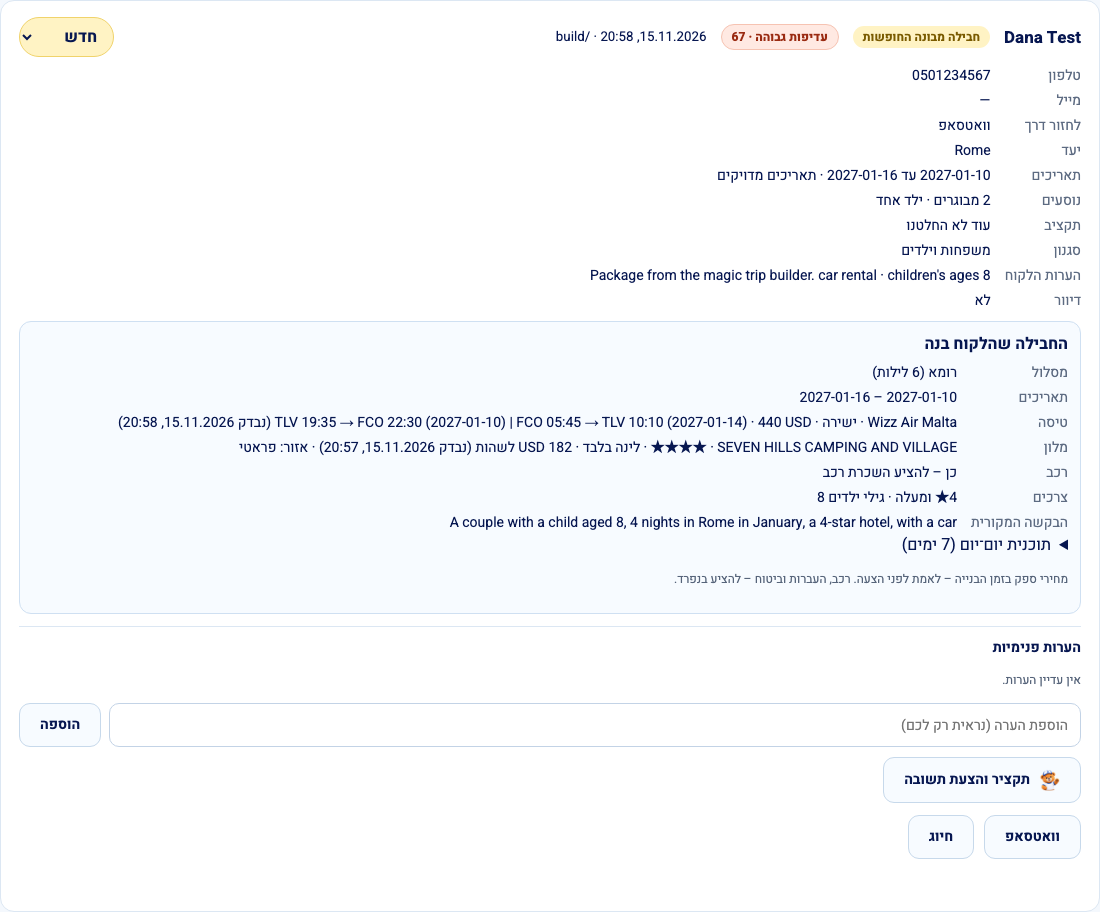
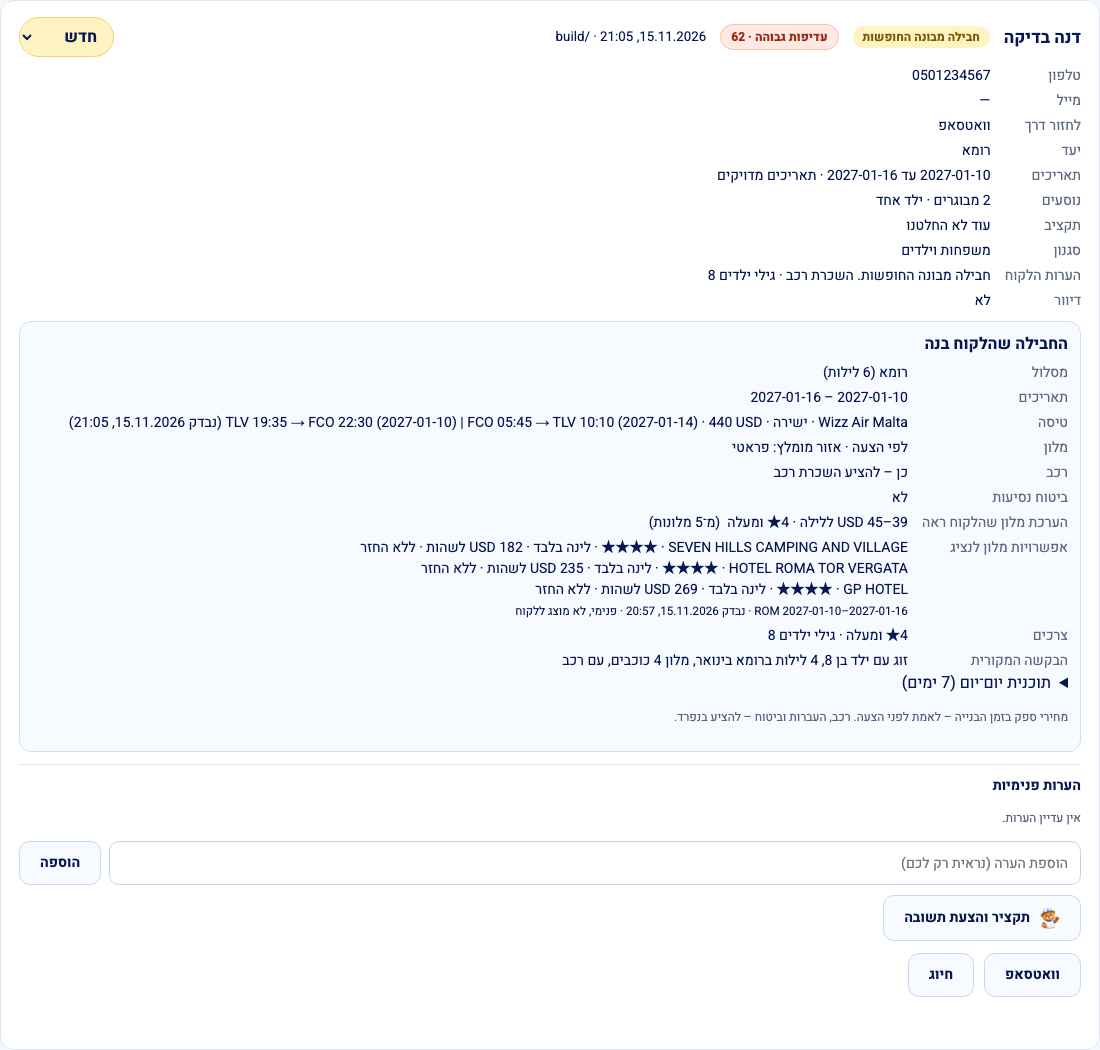
Owner decisions in the builder: hotels private by default (HOTELS_PUBLIC_DISPLAY off → area + stars/board + an aggregate price range from live supplier rates, no hotel names/photos/rates, no image proxy; the top options reach the agent in /admin only via the lead), Harel travel-insurance add-on (on 

diff --git a/gerbi/docs/specs/24-magic-trip-builder-he.md b/gerbi/docs/specs/24-magic-trip-builder-he.md
@@ -57,6 +57,18 @@
 
 ---
 
+### 1.3 החלטות הבעלים (15.11.2026, ערב)
+- **הספק אינו מאשר הצגה ציבורית של תוצאות ותמונות מלונות.** לכן `HOTELS_PUBLIC_DISPLAY` כבוי כברירת מחדל:
+  - בדף הציבורי אין שם מלון, תמונה או מחיר של מלון בודד, ו־`/api/build/hotel-image` מחזיר 404.
+  - כרטיס המלונות מציג: האזור המומלץ לסוג המטיילים (ובחירת אזור אחר), דרגת הכוכבים והפנסיון שביקשו, ו**הערכה**: "בדרך כלל ₪X–Y ללילה ל־4★ באזור …" + לכל השהות, עם התווית "הערכה; נציג ישלח הצעת מלון מדויקת".
+  - ההערכה = הרבעון ה־25 עד ה־75 של מחיר ללילה מבין המלונות המתאימים (כוכבים, פנסיון; באזור המומלץ כשיש בו לפחות 5), מחושבת בשרת מחיפוש חי – סטטיסטיקה מצטברת בלבד, מ־3 מלונות ומעלה. בפחות מכך – "לפי הצעה מנציג".
+  - 3 האפשרויות המובילות נשמרות **בשרת בלבד** (`agent-hotels:<ref>`, 14 יום); החבילה נושאת רק מזהה אטום, והליד מקבל `agentHotels` שמוצגים רק באדמין ("אפשרויות מלון לנציג · פנימי").
+  - `HOTELS_PUBLIC_DISPLAY=1` מחזיר את ההתנהגות המלאה (מלונות בשמם, תמונות, בחירה).
+- **בלי תוספת רווח כרגע.** `PRICE_MARKUP_PCT` לא נבנה: תוספת רק בבונה תיצור פער מול החיפוש הרגיל באותה טיסה. אם יוחלט על רווח – במקום אחד לכל האתר.
+- **שותף השכרת רכב = הספק, אבל ל־API שלנו אין הרשאת רכב** (`invalid_scope`). הרכב נשאר "לפי הצעה מנציג". **לבקש מהספק להפעיל הרשאת רכב ולשלוח תיעוד.**
+- **ביטוח נסיעות = הראל (אין API).** תוספת אופציונלית בחבילה: "ביטוח נסיעות – הראל", מתומחר "לפי הצעה מנציג" ונשמר בליד. קישור חיצוני רק עם `INSURANCE_PARTNER_URL` (https; כבוי כברירת מחדל). השם בטקסט בלבד, בלי לוגו.
+- **חיפוש שחזר ריק** (למשל ספק עמוס) לא נשמר במטמון, כדי שהבנייה הבאה תנסה שוב. התשובות המוקלטות (`GERBI_SUPPLIER_FIXTURES`) לא קוראות את המטמון החי ולא כותבות אליו.
+
 ## 2. מסעות משתמש
 
 | # | מי | מה כותבים | מה מקבלים |
@@ -111,9 +123,10 @@
 |---|---|---|
 | טיסה | הבחירה המסומנת מהספק | **חי** + שעת בדיקה; מומר לש״ח בשער האתר |
 | מלון | המלון המסומן מהספק (`minPrice` לשהות) | **חי** + שעת בדיקה; "המחיר הסופי מאומת מול הספק לפני הזמנה" |
+| מלון – מצב ברירת מחדל (פרטי) | סטטיסטיקה מצטברת מחיפוש חי (§1.3) | **הערכה**: טווח ללילה ולשהות, נוסף לטווח ההערכה ולא לסכום החי |
 | מלון (אין תוצאה) | — | **לפי הצעה מנציג** |
 | הוצאות במקום | `dailyBudgetIls` של היעד (קטלוג) × ימים × נוסעים (ילד = 0.6 מבוגר) | **הערכה**: טווח `low–mid` (או `mid–high` לתקציב גבוה / יוקרה); "אוכל, אטרקציות ותחבורה מקומית, בלי לינה" |
-| רכב, העברות, ביטוח | — | **לפי הצעה מנציג** |
+| רכב, העברות, ביטוח נסיעות (הראל, כשסומן) | — | **לפי הצעה מנציג** |
 
 - **סה״כ חי** = טיסה + מלון (רק מה שחי). **הערכה** מוצגת בנפרד כטווח, ו"כולל הערכה" = חי + טווח.
 - לנוסע = סכום ÷ מספר נוסעים (ילדים נספרים כנוסעים).
@@ -191,8 +204,10 @@
 6. שלד החבילה מוצג לפני כל קריאה לספק; טיסות ומלונות נכנסים בנפרד עם הודעת אזור חי.
 7. טיסות: עד 3 בחירות חיות עם מחיר בש״ח ושעת בדיקה; קישור לחיפוש המלא.
 8. מלונות: עד 3 מלונות חיים (כשהספק עונה) עם דירוג, פנסיון, מחיר לשהות וללילה, שעת בדיקה; "הכול כלול" מסנן לפנסיון AI או מסביר שלא נמצא.
+8א. במצב ברירת המחדל (`HOTELS_PUBLIC_DISPLAY` כבוי): אזור + כוכבים/פנסיון + טווח הערכה בלבד; אין שם, תמונה או מחיר של מלון בדף, אין פרוקסי תמונות; האפשרויות לנציג מופיעות באדמין.
+8ב. ביטוח נסיעות – הראל: סימון מוסיף שורה "לפי הצעה" בסה״כ ונשמר בליד.
 9. בלי תוצאה חיה למלון – אזור מומלץ + "לפי הצעה מנציג", בלי מספר.
-10. רכב: המלצה מהקטלוג, הוספה/הסרה, "לפי הצעה מנציג", הערת גיל נהג; קישור שותף רק עם `CAR_PARTNER_URL`.
+10. רכב: המלצה מהקטלוג, הוספה/הסרה, "לפי הצעה מנציג", הערת גיל נהג; מחיר רכב חי רק אחרי שהספק יפעיל הרשאת רכב (§1.3).
 11. תוכנית יום־יום: יום הגעה קל, יום חזרה, קצב ילדים, יום שבת למנוחה לשומרי שבת, טיול יום מ־5 לילות; קישור מפה לכל פריט.
 12. עריכת תוכנית: הזזת יום, הסרת פריט והחזרתו – בלי בנייה מחדש.
 13. מעשי: ויזה (עם "בדקו במקורות הרשמיים"), מטבע, שפה, אזור זמן, כשרות, שבת, עונה.
@@ -209,8 +224,9 @@
 24. e2e `tests/e2e/build.e2e.mjs`: עברית+אנגלית, 375+1440, NOKEY + mock AI, וריצה חיה אחת; צילומים ב־`verification/24-builder/`.
 
 ## 13. שאלות פתוחות לבעלים
-1. שותף להשכרת רכב (ואם כן – קישור/API ותנאי עמלה).
-2. תוספת רווח (markup) על מלונות וטיסות – כרגע מוצג מחיר הספק כפי שהוא.
-3. האם להפעיל הזמנת מלונות ישירה מהאתר (`write:hotels-book`) או להשאיר אצל נציג.
-4. העברות וביטוח – ספק מועדף?
-5. אישור הספק לשימוש ציבורי בתוצאות מלונות ותמונות.
+1. ~~שותף להשכרת רכב~~ – הוחלט: הספק. **לבקש מהספק להפעיל הרשאת רכב (scope) ולשלוח תיעוד API.**
+2. ~~תוספת רווח~~ – הוחלט: בלי תוספת כרגע (§1.3).
+3. האם להפעיל הזמנת מלונות ישירה מהאתר (`write:hotels-book`) או להשאיר אצל נציג (סוכן אחר בונה הזמנת טיסות באתר).
+4. העברות משדה התעופה – ספק מועדף? (~~ביטוח~~ – הוחלט: הראל, ללא API.)
+5. ~~אישור הספק להצגת מלונות~~ – הוחלט: לא מאושר; `HOTELS_PUBLIC_DISPLAY` כבוי. אם יאושר בעתיד – להדליק את המשתנה בלבד.
+6. קישור לאתר הראל (`INSURANCE_PARTNER_URL`) – איזו כתובת, ואם יש הסכם הפניה.

diff --git a/gerbi/docs/production-readiness-he.md b/gerbi/docs/production-readiness-he.md
@@ -17,6 +17,8 @@
 | `GERBI_LLM_MODEL` | החלפת מודל (למשל `qwen/qwen3.8-flash`, זול פי 13) | לא | — |
 | `GERBI_LLM_DAILY_TOKENS` | תקרת טוקנים ליום (ברירת מחדל 200,000) | לא | — |
 | `VOLERO_BOOKING_ENABLED` | להשאיר `false` עד שיש תהליך הזמנה ותשלום | — | — |
+| `HOTELS_PUBLIC_DISPLAY` | בונה החופשות (אפיון 24): **לא להגדיר** – הספק לא אישר הצגת מלונות ותמונות; בלי המשתנה מוצגת הערכה מצטברת בלבד | — | — |
+| `INSURANCE_PARTNER_URL` | אופציונלי: קישור https לאתר הראל בכרטיס ביטוח הנסיעות של בונה החופשות | — | — |
 | `LEADS_ADMIN_TOKEN` | מפתח לצפייה בפניות (טופס צור קשר וטיולים בהתאמה אישית) בדף `/leads-admin` וב־`GET /api/leads` (Bearer). בלי המשתנה, הצפייה כבויה (404) | כן, כדי לקרוא פניות | ליצור מחרוזת אקראית ארוכה: `openssl rand -hex 32` |
 | `ALLOW_WEAK_ADMIN_TOKEN` | **לא להגדיר.** בפרודקשן (`NODE_ENV=production` או ב־Vercel) `LEADS_ADMIN_TOKEN` קצר מ־16 תווים נדחה: השרת כותב ליומן `{"evt":"admin_token","error":"weak_token_refused"}` וכל אזור הניהול כבוי (404) עד שמגדירים טוקן חזק. `ALLOW_WEAK_ADMIN_TOKEN=1` עוקף (עם אזהרה ביומן). בפיתוח מקומי `123456` ממשיך לעבוד | לא | — |
 | `LEADS_RETENTION_DAYS` | שמירת פניות: פניות ישנות מ־N ימים נמחקות (יחד עם הסטטוס וההערות שלהן). ברירת מחדל 730 (שנתיים), מינימום 30. הניקוי רץ כשבעל העסק פותח את רשימת הפניות, לכל היותר פעם ביום | לא | לפי מדיניות הפרטיות |

diff --git a/gerbi/tests/e2e/README.md b/gerbi/tests/e2e/README.md
@@ -22,4 +22,4 @@ for f in tests/e2e/*.e2e.mjs; do PLAYWRIGHT_MODULE=/path/to/playwright/index.mjs
 | `decide.e2e.mjs` | decision layer: badges, reasons, memory events, partner fallback |
 | `destinations.e2e.mjs` | spec 23: destinations catalog he/en at 1440/375 — "only Greece" regression, filters + URL state, show more, destination page CTAs, favorites/compare, inspiration (no supplier calls); `OUT=verification/23-destinations` |
 | `account.e2e.mjs` | customer area (spec 17): sign-up + device merge, sync, enquiries, second device at 375, delete (no supplier calls) |
-| `build.e2e.mjs` | spec 24 magic trip builder, he+en at 1440/375: home prompt → package, live flights/hotels cards, total legend, itinerary edits, car toggle, rebuild, share link (no supplier call), package lead, suggest mode, admin package view (`ADMIN_PASSWORD`). Server with `GERBI_SUPPLIER_FIXTURES=1` (recorded answers in `tests/fixtures/build/`); `NOKEY=1` for rules only; `LIVE=1` = one real search (1440 Hebrew). `OUT=verification/24-builder` |
+| `build.e2e.mjs` | spec 24 magic trip builder, he+en at 1440/375: home prompt → package, live flights/hotels cards, total legend, itinerary edits, car toggle, rebuild, share link (no supplier call), package lead, suggest mode, admin package view (`ADMIN_PASSWORD`). Server with `GERBI_SUPPLIER_FIXTURES=1` (recorded answers in `tests/fixtures/build/`); `NOKEY=1` for rules only; `LIVE=1` = one real search (1440 Hebrew); `PUBLIC=1` against a server with `HOTELS_PUBLIC_DISPLAY=1` (named hotels; default = private estimate). `OUT=verification/24-builder` |
